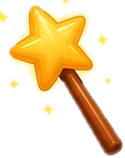
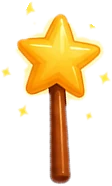
Rotate wand upright, lower flag, nudge duck ring further left
- Magic wand rotated ~30deg clockwise so it stands vertical with the
  handle in the fist (raster rotation of the existing sprite)
- Star flag moved down so the pole sits in the closed hand
- Duck ring nudged further left to close the right-side gap

Claude-Session: https://claude.ai/code/session_011eGCYFeNwhvYr3UXqKUAL8

diff --git a/src/components/Monster.tsx b/src/components/Monster.tsx
@@ -69,16 +69,16 @@ const PLACE: Record<string, Placement> = {
   'hat-beanie': { cx: 652, cy: 450, w: 330 },
   // held items sit in the raised-pose fist
   'held-balloon': { cx: 1110, cy: 640, w: 230 },
-  'held-wand': { cx: 950, cy: 570, w: 300 },
+  'held-wand': { cx: 1000, cy: 470, w: 230 },
   'held-icecream': { cx: 1078, cy: 760, w: 190 },
-  'held-flag': { cx: 945, cy: 592, w: 290 },
+  'held-flag': { cx: 945, cy: 610, w: 290 },
   'held-telescope': { cx: 1120, cy: 810, w: 300 },
   'held-lantern': { cx: 1075, cy: 900, w: 220 },
   'back-cape': { cx: 650, cy: 1188, w: 1150 },
   'back-wings': { cx: 650, cy: 818, w: 1250 },
   'back-batwings': { cx: 650, cy: 798, w: 1420 },
   'back-belt': { cx: 650, cy: 1228, w: 620 },
-  'back-duck': { cx: 606, cy: 1230, w: 930 },
+  'back-duck': { cx: 580, cy: 1230, w: 930 },
 }
 
 /** back-slot items worn on the front of the body (rendered above the base). */